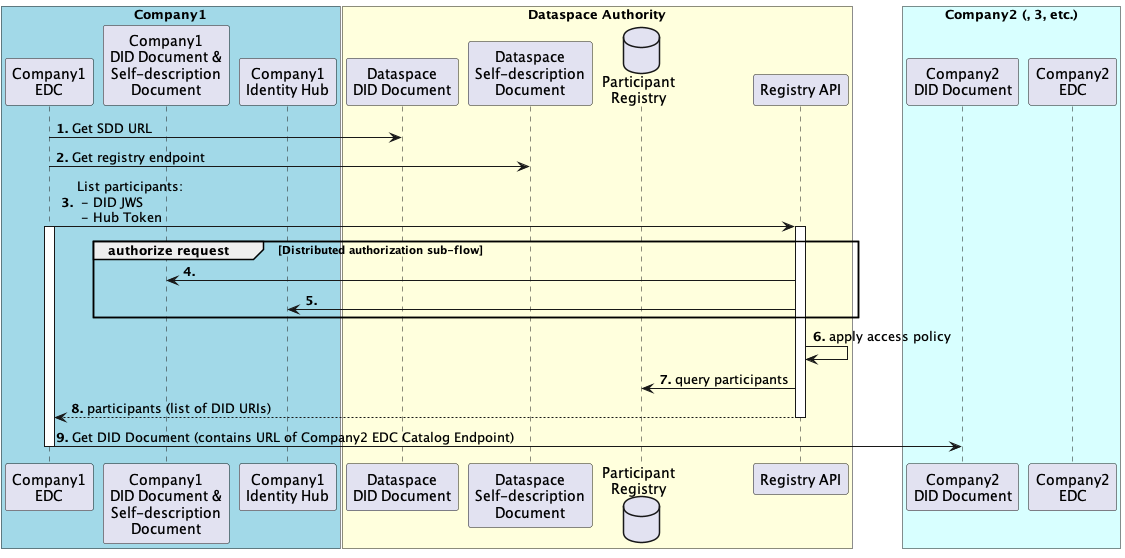
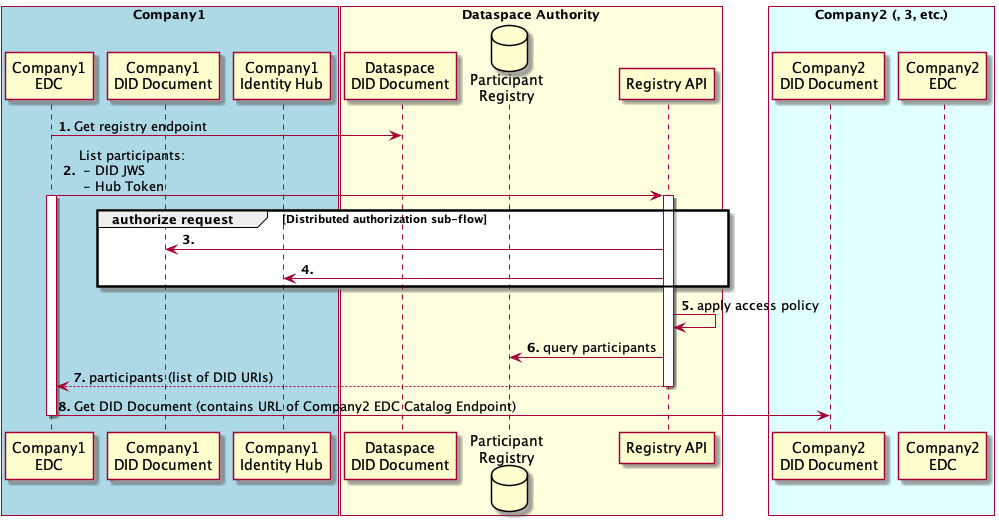
ADR

diff --git a/docs/developer/decision-records/2022-06-13-registration-service/README.md b/docs/developer/decision-records/2022-06-13-registration-service/README.md
@@ -3,10 +3,9 @@
 Registration Service is a component of the dataspace providing Dataspace Authority. In current version the Dataspace Authority is centralised. In future 
 versions, the Authority could also be partly or fully decentralized.
 
-Responsibilities of the Dataspace Authority:
+Responsibilities of the Dataspace Authority in MVD version:
 - Establishes a DID defining the Dataspace.
 - Manages policies defining who is allowed to participate in the dataspace.
-- Publishes a self-description document.
 - Manages enrollment process of the Dataspace participants.
 - Lists the available Dataspace participants.
 
@@ -25,8 +24,10 @@ The Registration Service will be deployed as a separate component in the Dataspa
 
 ## Identity
 
-the Registration Service will have its own `did:web` deployed that points to the Self-description document endpoint. From the Self-description document 
-potential Dataspace participants can retrieve the enrollment API endpoint.
+the Registration Service will have its own `did:web` document deployed, that points to the enrollment API endpoint.
+
+Please note that in the future versions the `did:web` document points to the Self-Description Document url that allows to retreive the enrollment API endpoint. 
+MVD version is using a simplification omitting the Self-Description Document in the process.
 
 ## Operations
 
@@ -51,7 +52,7 @@ A Client for Company1 initiates the enrollment process by resolving and contacti
 
 The Dataspace Authority enrollment service obtains Verifiable Credentials from Company1 to determine whether it meets enrollment policies. The enrollment service then issues a Verifiable Credential that establishes membership and pushes it to Company 1's Identity Hub, and stores membership and certificate information.
 
-In simple scenarios, enrollement could be fast and fully automated. However, in advanced scenarios, enrollment policies could require interactions with external systems, and even manual processes. Therefore, it is implemented asynchronously.
+In simple scenarios, enrollment could be fast and fully automated. However, in advanced scenarios, enrollment policies could require interactions with external systems, and even manual processes. Therefore, it is implemented asynchronously.
 
 There could be different "types" of onboarding, e.g. onboarding a participant or a credential issuer, so the architecture has to support that.
 
@@ -71,17 +72,18 @@ There could be different "types" of onboarding, e.g. onboarding a participant or
 
 ![dataspace-enrollment](dataspace-enrollment.png)
 
-1. The Client for Company1 initiates the enrollment process based on the Dataspace DID URL. It retrieves the DID Document, and parses it to determine the Self-description document endpoint.
-2. The Client for Company1 retrieves the Self-description document, and parses it to retrieve the Dataspace enrollment HTTP endpoint.
-3. The client needs access to the Company1 Private Key to sign a JWS. The client sends an HTTP request to the Dataspace Authority enrollement endpoint. The request is accepted for asynchronous processing.
-4. The DA uses the Distributed authorization sub-flow (see above) to authenticate the request...
-5. ... and retrieve credentials from Company1's Identity Hub.
-6. The DA authorizes the request by applying the Dataspace enrollment policy on the obtained Verifiable Credentials.
-7. The DA stores membership information in its registry. At the very least, this includes Company 1's DID URL.
-8. The DA issues and signs a membership Verifiable Credential as an X.509 Certificate.
-9. The DA stores the Certificate in its log, for audit and revocation.
-10. The DA sends the Verifiable Credential to Company1's Identity Hub for storage. It uses the Identity Hub bearer token (from the Distributed authorization sub-flow) to authenticate the request.
-11. Company1's Identity Hub validates the bearer token and stores the membership Verifiable Credential.
+1. The Client for Company1 initiates the enrollment process based on the Dataspace DID URL. It retrieves the DID Document, and parses it to retrieve Dataspace 
+   enrollment HTTP endpoint.
+2. The client needs access to the Company1 Private Key to sign a JWS. The client sends an HTTP request to the Dataspace Authority enrollment endpoint. The 
+   request is accepted for asynchronous processing.
+3. The DA authenticates the request...
+4. ... and retrieves credentials from Company1's Identity Hub.
+5. The DA authorizes the request by applying the Dataspace enrollment policy on the obtained Verifiable Credentials.
+6. The DA stores membership information in its registry. At the very least, this includes Company 1's DID URL.
+7. The DA issues and signs a membership Verifiable Credential as an X.509 Certificate.
+8. The DA sends the Verifiable Credential to Company1's Identity Hub for storage. It uses the Identity Hub bearer token (from the Distributed authorization 
+   sub-flow) to authenticate the request.
+9. Company1's Identity Hub validates the bearer token and stores the membership Verifiable Credential.
 
 #### Data model 
 
@@ -96,7 +98,7 @@ public class OnboardingRequest {
     private String identityToken;
 }
 ```
-The identityToken is a JWT containing URI where the Self Description Document is located.
+
 Upon receiving an OnboardingRequest, the registration service creates a participant record, that contains all information about a participant.
 
 ```java
@@ -135,15 +137,15 @@ None
 
 ![list-participants](list-participants.png)
 
-1. The EDC for Company1 determines the Self-description document endpoint from the Dataspace DID Document.
-2. The EDC for Company1 determines the Dataspace Registry endpoint from the Self-description document.
-3. The EDC for Company1 issues a request to the Dataspace Registry, to list participants.
-4. The Registry uses the Distributed authorization sub-flow (see above) to authenticate the request...
-5. ... and retrieve credentials from Company1's Identity Hub.
-6. The Registry authorizes the request by applying the Registry access policy on the obtained Verifiable Credentials. For example, the caller must be a valid Dataspace Participant.
-7. The Registry obtains the list of Dataspace Participant DID URIs from its storage...
-8. ... and returns it synchronously to the caller (Company1 EDC).
-9. The EDC for Company1 iterates through the Participants' DID URIs, and retrieves the collection of their IDS endpoints from their DID Documents.
+1. The EDC for Company1 determines the Dataspace Registry endpoint from the Dataspace DID Document.
+2. The EDC for Company1 issues a request to the Dataspace Registry, to list participants.
+3. The DA authenticates the request...
+4. ... and retrieves credentials from Company1's Identity Hub.
+5. The DA authorizes the request by applying the Registry access policy on the obtained Verifiable Credentials. For example, the caller must be a valid 
+   Dataspace Participant.
+6. The DA obtains the list of Dataspace Participant DID URIs from its storage...
+7. ... and returns it synchronously to the caller (Company1 EDC).
+8. The EDC for Company1 iterates through the Participants' DID URIs, and retrieves the collection of their IDS endpoints from their DID Documents.
 
 ## References
 
